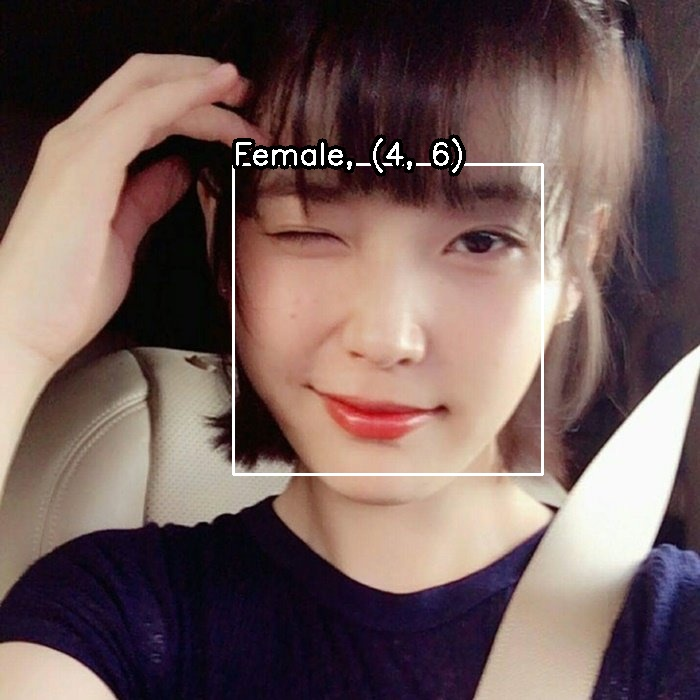
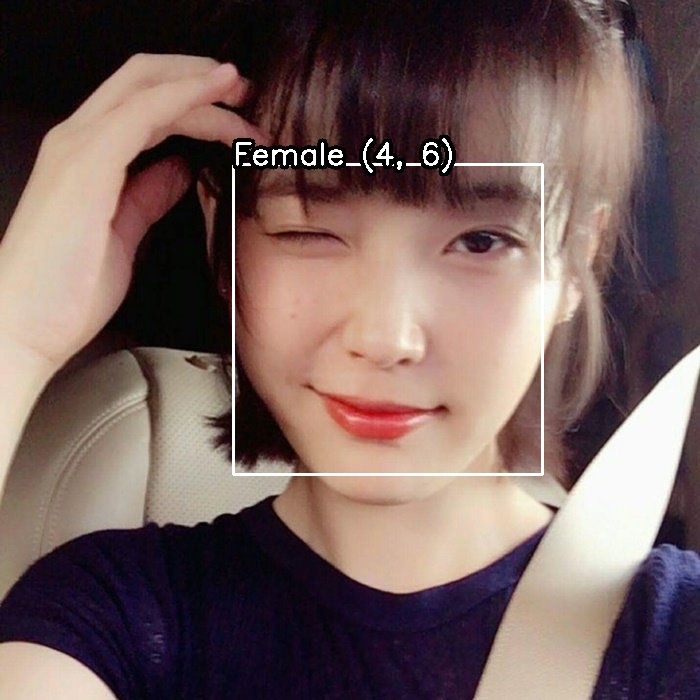
change result

Changed region(s): [[0.48, 0.18, 0.69, 0.27]]

diff --git a/main.py b/main.py
@@ -24,7 +24,9 @@ for img_path in img_list:
 
     face_img = img[y1:y2, x1:x2].copy()
 
-    blob = cv2.dnn.blobFromImage(face_img, scalefactor=1, size=(227, 227), mean=(78.4263377603, 87.7689143744, 114.895847746), swapRB=False, crop=False)
+    blob = cv2.dnn.blobFromImage(face_img, scalefactor=1, size=(227, 227),
+      mean=(78.4263377603, 87.7689143744, 114.895847746),
+      swapRB=False, crop=False)
 
     # predict gender
     gender_net.setInput(blob)
@@ -38,9 +40,11 @@ for img_path in img_list:
 
     # visualize
     cv2.rectangle(img, (x1, y1), (x2, y2), (255,255,255), 2)
-    overlay_text = '%s, %s' % (gender, age)
-    cv2.putText(img, overlay_text, org=(x1, y1), fontFace=cv2.FONT_HERSHEY_SIMPLEX, fontScale=1, color=(0,0,0), thickness=10)
-    cv2.putText(img, overlay_text, org=(x1, y1), fontFace=cv2.FONT_HERSHEY_SIMPLEX, fontScale=1, color=(255,255,255), thickness=2)
+    overlay_text = '%s %s' % (gender, age)
+    cv2.putText(img, overlay_text, org=(x1, y1), fontFace=cv2.FONT_HERSHEY_SIMPLEX,
+      fontScale=1, color=(0,0,0), thickness=10)
+    cv2.putText(img, overlay_text, org=(x1, y1),
+      fontFace=cv2.FONT_HERSHEY_SIMPLEX, fontScale=1, color=(255,255,255), thickness=2)
 
   cv2.imshow('img', img)
   cv2.imwrite('result/%s' % img_path.split('/')[-1], img)
